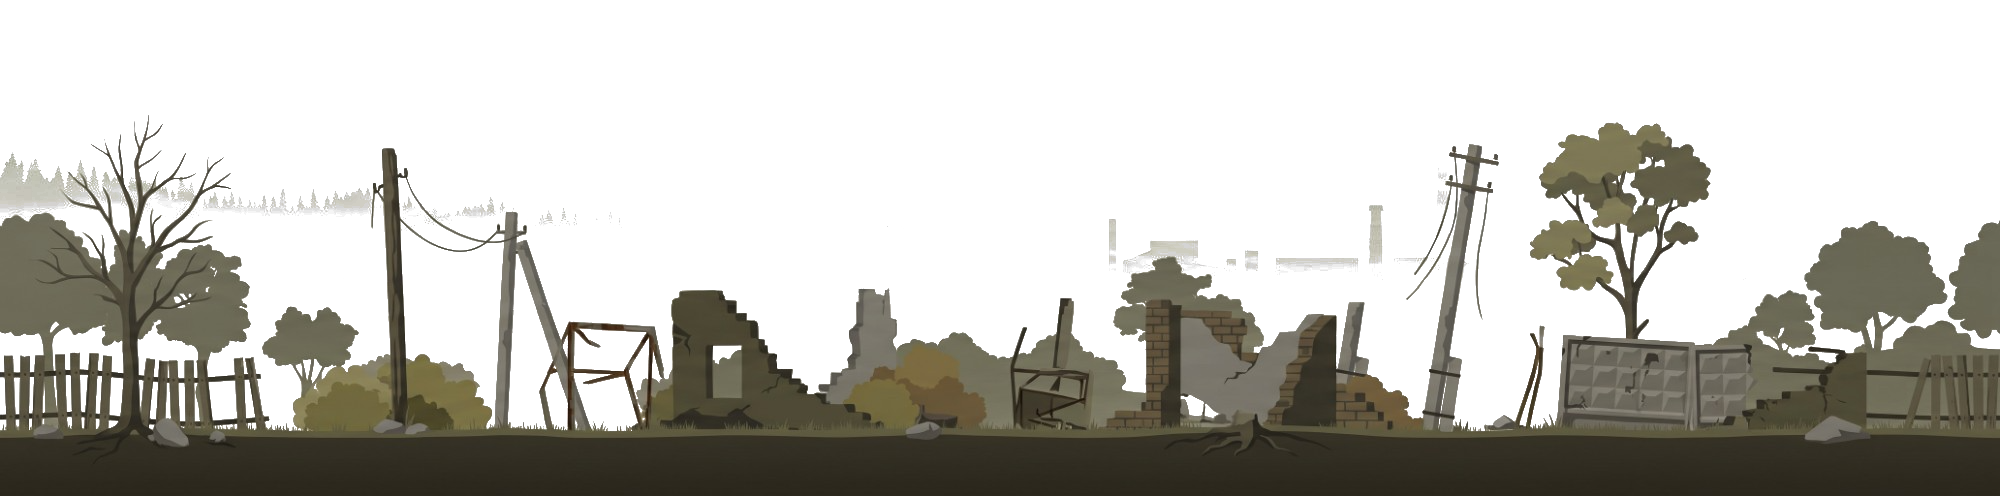
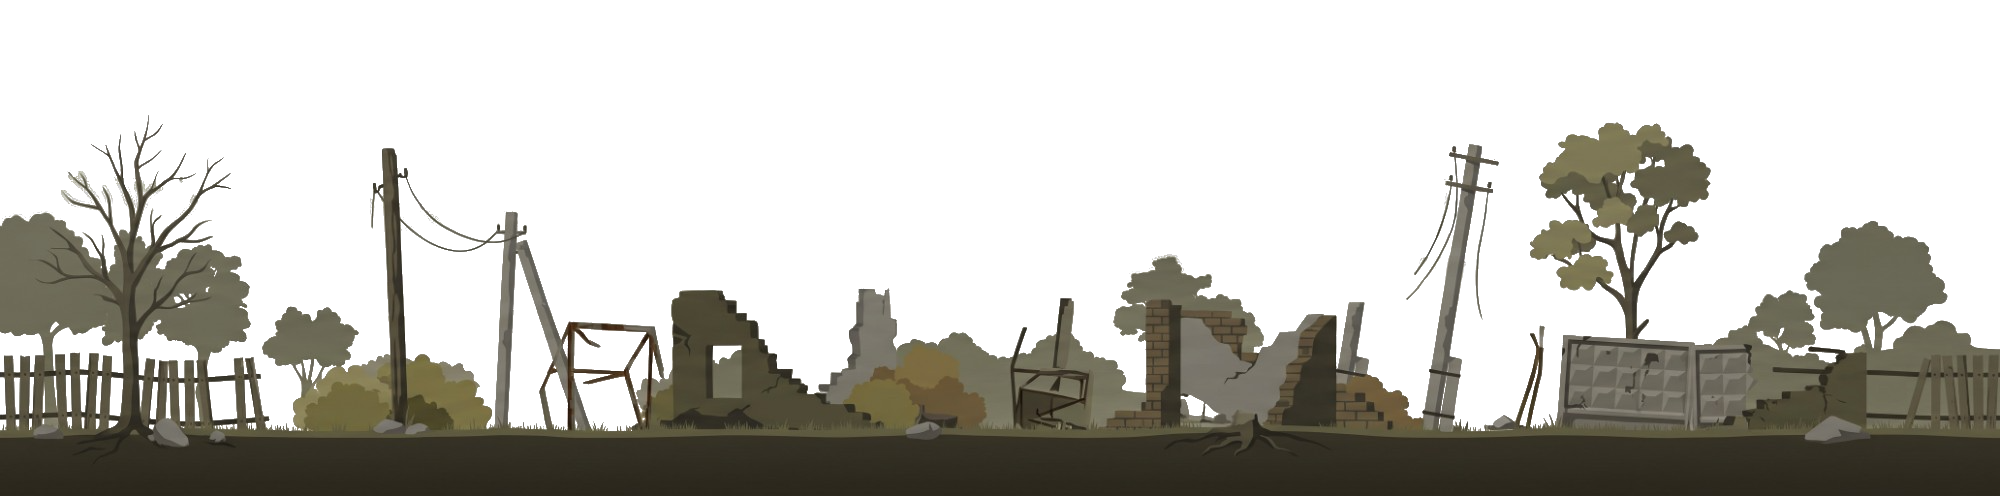
Фон: прибрано залишки дальнього плану, рівнина замість білої смуги

diff --git a/src/render.js b/src/render.js
@@ -12,17 +12,19 @@ loadArt('sky', 'art/sky.jpg');       // небо з хмарами
 loadArt('far', 'art/far.png');       // дальній план: пагорби, ліс, промзона (прозоре небо)
 loadArt('near', 'art/near.png');     // ближній фон: руїни, стовпи, дерева (прозорий серпанок)
 loadArt('ground', 'art/ground.png'); // ґрунт у розрізі з травою (прозорий верх)
-const ART_FAR = { h: 300, base: 410, par: 0.15, vpar: 0.6, haze: '#e1dcd5' };  // висота шару в одиницях світу, рядок горизонту, паралакс
+const ART_FAR = { h: 300, base: 410, cut: 413, par: 0.15, vpar: 0.6 }; // нижче cut у far.png — туман, його не малюємо  // висота шару в одиницях світу, рядок горизонту, паралакс
 const ART_NEAR = { h: 250, base: 440, par: 0.4, vpar: 0.85 };
 const ART_GROUND = { k: 0.15, surf: 175, step: 6 }; // одиниць світу на піксель, рядок поверхні в ground.png, ширина смуги
 
 // картинка, що повторюється по горизонталі з дзеркальним відбиттям (щоб не було шва)
-function drawMirrorTiles(ctx, img, vp, offset, y, w, h) {
-  const period = w * 2;
+// sh — скільки рядків картинки брати (зверху)
+function drawMirrorTiles(ctx, img, vp, offset, y, w, h, sh) {
+  sh = sh || img.height;
+  const dh = h * sh / img.height, period = w * 2;
   let start = -(((offset % period) + period) % period);
   for (let x = start, k = 0; x < vp.w; x += w, k++) {
-    if (k % 2 === 0) ctx.drawImage(img, vp.x + x, y, w + 1, h);
-    else { ctx.save(); ctx.translate(vp.x + x + w, y); ctx.scale(-1, 1); ctx.drawImage(img, 0, 0, w + 1, h); ctx.restore(); }
+    if (k % 2 === 0) ctx.drawImage(img, 0, 0, img.width, sh, vp.x + x, y, w + 1, dh);
+    else { ctx.save(); ctx.translate(vp.x + x + w, y); ctx.scale(-1, 1); ctx.drawImage(img, 0, 0, img.width, sh, 0, 0, w + 1, dh); ctx.restore(); }
   }
 }
 function drawArtBackground(ctx, vp, cx, cy, s) {
@@ -36,8 +38,15 @@ function drawArtBackground(ctx, vp, cx, cy, s) {
   // дальній план
   const kf = (ART_FAR.h / ART.far.height) * s, fy = mid + (refG - mid) * ART_FAR.vpar - 24 * s + dG * ART_FAR.par;
   const ftop = fy - ART_FAR.base * kf;
-  drawMirrorTiles(ctx, ART.far, vp, cx * s * ART_FAR.par, ftop, ART.far.width * kf, ART.far.height * kf);
-  ctx.fillStyle = ART_FAR.haze; ctx.fillRect(vp.x, ftop + ART.far.height * kf - 1, vp.w, vp.y + vp.h);
+  drawMirrorTiles(ctx, ART.far, vp, cx * s * ART_FAR.par, ftop, ART.far.width * kf, ART.far.height * kf, ART_FAR.cut);
+  // рівнина, що тягнеться від дальнього плану до ближнього: біля обрію світла в серпанку, ближче — темніша
+  const fb = ftop + ART_FAR.cut * kf - 1;
+  if (fb < vp.y + vp.h) {
+    const span = Math.max(40 * s, groundY - fb);
+    const gr = ctx.createLinearGradient(0, fb, 0, fb + span);
+    gr.addColorStop(0, '#b6b4a3'); gr.addColorStop(0.08, '#a3a28a'); gr.addColorStop(0.35, '#87876a'); gr.addColorStop(1, '#5c5a43');
+    ctx.fillStyle = gr; ctx.fillRect(vp.x, fb, vp.w, vp.y + vp.h - fb);
+  }
   // ближній фон
   const kn = (ART_NEAR.h / ART.near.height) * s, ny = mid + (refG - mid) * ART_NEAR.vpar - 4 * s + dG * ART_NEAR.par;
   const ntop = ny - ART_NEAR.base * kn;
